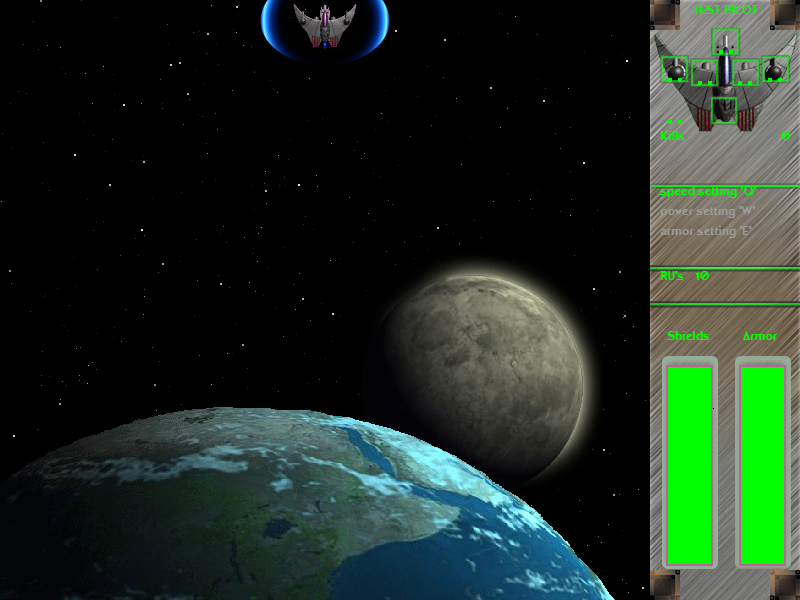
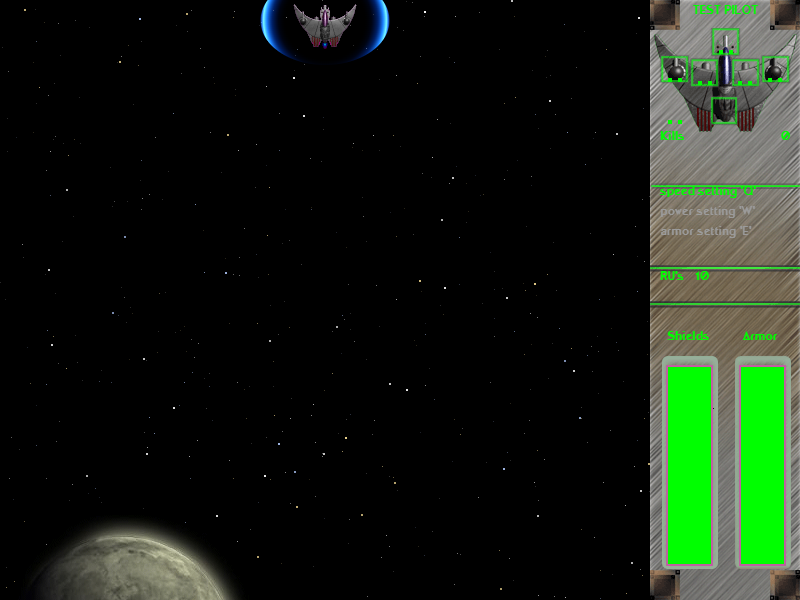
Fix customization preview power scaling, turret angles, and Earth/Moon positioning
- renderCustShipDemo: use p.frame for power-scaled sprite selection
  (blaster_N, turret_N, torp_N where N = cell2 power level)
- updateCustDemo: use TURRET_VELOCITY_TABLE lookup for correct
  discrete 8-angle turret directions instead of sin/cos math
- StarField: Moon x=0 (LEFT side, matching C++ source and reference),
  Moon y=200 (starts below Earth y=150), correct draw order preserved
- StarField speeds: Earth=50px/s, Moon=30px/s matching C++ YSCALE=600

Changed region(s): [[0.0312, 0.42, 0.7812, 1.0]]

diff --git a/web/src/game/GameManager.ts b/web/src/game/GameManager.ts
@@ -4,7 +4,7 @@
 
 import { GameCanvas, Input, AudioManager, AssetLoader, ParticleSystem, SoundInstance } from '../engine';
 import { LEVELS } from '../data/levels';
-import { ENEMY_SCORES, RANKINGS } from '../data/ships';
+import { ENEMY_SCORES, RANKINGS, TURRET_VELOCITY_TABLE } from '../data/ships';
 import { rectsOverlap, PLAY_AREA_W, PLAY_AREA_H } from './Collision';
 import { Player } from './Player';
 import { Enemy } from './Enemy';
@@ -76,7 +76,7 @@ export class GameManager {
     private custStatusMsg = '';
     private custStatusTimer = 0;
     // Demo projectiles for live ship preview in customization
-    private custDemoProjectiles: Array<{x:number, y:number, vx:number, vy:number, type:string, alive:boolean}> = [];
+    private custDemoProjectiles: Array<{x:number, y:number, vx:number, vy:number, type:string, frame:number, alive:boolean}> = [];
     private custDemoLastFire: Record<string, number> = {};
     private custSpeedShipX = 580;
     private custSpeedShipDir = 1;
@@ -1586,32 +1586,44 @@ export class GameManager {
         const shipX = 621, shipY = 383;
         const rates: Record<string, number> = { nose: 150, lt: 300, rt: 300, lm: 1200, rm: 1200 };
 
-        // Get turret angles for demo
+        // Get current power setting for sprite frames and turret angles
         const setting = this.player?.powerPlant.getSetting();
         const ltAngle = setting?.leftTurretAngle ?? 135;
         const rtAngle = setting?.rightTurretAngle ?? 45;
-        const ltRad = ltAngle * Math.PI / 180;
-        const rtRad = rtAngle * Math.PI / 180;
+
+        // Use the same discrete velocity table as real gameplay (scaled for demo speed)
+        const demoScale = 0.52; // scale table velocities (~29 magnitude) to ~15 demo speed
+        const ltSnap = ((Math.round(ltAngle / 45) * 45) % 360 + 360) % 360;
+        const rtSnap = ((Math.round(rtAngle / 45) * 45) % 360 + 360) % 360;
+        const ltVel = TURRET_VELOCITY_TABLE[ltSnap] ?? { dx: 0, dy: -29 };
+        const rtVel = TURRET_VELOCITY_TABLE[rtSnap] ?? { dx: 0, dy: -29 };
+
+        // Sprite frame = cell2 - 1 (matching real weapon rendering)
+        const noseFrame = (setting?.blasterCell2 ?? 1);
+        const ltFrame = (setting?.leftTurretCell2 ?? 1);
+        const rtFrame = (setting?.rightTurretCell2 ?? 1);
+        const lmFrame = (setting?.leftMissileCell2 ?? 1);
+        const rmFrame = (setting?.rightMissileCell2 ?? 1);
 
         if (fire.nose && now - (this.custDemoLastFire['nose'] ?? 0) > rates.nose) {
             this.custDemoLastFire['nose'] = now;
-            this.custDemoProjectiles.push({ x: shipX + 22, y: shipY - 12, vx: 0, vy: -14, type: 'blaster', alive: true });
+            this.custDemoProjectiles.push({ x: shipX + 22, y: shipY - 12, vx: 0, vy: -14, type: 'blaster', frame: noseFrame, alive: true });
         }
         if (fire.lt && now - (this.custDemoLastFire['lt'] ?? 0) > rates.lt) {
             this.custDemoLastFire['lt'] = now;
-            this.custDemoProjectiles.push({ x: shipX - 1, y: shipY - 5, vx: -Math.sin(ltRad) * 15, vy: -Math.cos(ltRad) * 15, type: 'turret', alive: true });
+            this.custDemoProjectiles.push({ x: shipX - 1, y: shipY - 5, vx: ltVel.dx * demoScale, vy: ltVel.dy * demoScale, type: 'turret', frame: ltFrame, alive: true });
         }
         if (fire.rt && now - (this.custDemoLastFire['rt'] ?? 0) > rates.rt) {
             this.custDemoLastFire['rt'] = now;
-            this.custDemoProjectiles.push({ x: shipX + 44, y: shipY - 5, vx: -Math.sin(rtRad) * 15, vy: -Math.cos(rtRad) * 15, type: 'turret', alive: true });
+            this.custDemoProjectiles.push({ x: shipX + 44, y: shipY - 5, vx: rtVel.dx * demoScale, vy: rtVel.dy * demoScale, type: 'turret', frame: rtFrame, alive: true });
         }
         if (fire.lm && now - (this.custDemoLastFire['lm'] ?? 0) > rates.lm) {
             this.custDemoLastFire['lm'] = now;
-            this.custDemoProjectiles.push({ x: shipX + 13, y: shipY, vx: 0, vy: -9, type: 'missile', alive: true });
+            this.custDemoProjectiles.push({ x: shipX + 13, y: shipY, vx: 0, vy: -9, type: 'missile', frame: lmFrame, alive: true });
         }
         if (fire.rm && now - (this.custDemoLastFire['rm'] ?? 0) > rates.rm) {
             this.custDemoLastFire['rm'] = now;
-            this.custDemoProjectiles.push({ x: shipX + 30, y: shipY, vx: 0, vy: -9, type: 'missile', alive: true });
+            this.custDemoProjectiles.push({ x: shipX + 30, y: shipY, vx: 0, vy: -9, type: 'missile', frame: rmFrame, alive: true });
         }
 
         // Move projectiles and remove off-screen ones
@@ -1870,11 +1882,13 @@ export class GameManager {
         const sel = this.custSelectedSystem;
         const shipX = 621, shipY = 383;
 
-        // Draw demo projectiles (using actual weapon sprites)
+        // Draw demo projectiles (using power-scaled weapon sprites)
         for (const p of this.custDemoProjectiles) {
-            const spriteKey = p.type === 'blaster' ? 'blaster_1'
-                            : p.type === 'turret' ? 'turret_1'
-                            : 'torp_1';
+            // frame = cell2 value (1-5), sprite index = frame (1-indexed filenames)
+            const frameIdx = Math.max(1, Math.min(p.frame, 5));
+            const spriteKey = p.type === 'blaster' ? `blaster_${frameIdx}`
+                            : p.type === 'turret' ? `turret_${frameIdx}`
+                            : `torp_${frameIdx}`;
             const img = this.assets.tryGetImage(spriteKey);
             if (img) {
                 ctx.drawImage(img, p.x, p.y);
@@ -1883,7 +1897,7 @@ export class GameManager {
                             : p.type === 'turret' ? '#00ff80'
                             : '#0000ff';
                 ctx.fillStyle = color;
-                ctx.fillRect(p.x, p.y, 8, 8);
+                ctx.fillRect(p.x, p.y, 4 + frameIdx * 2, 4 + frameIdx * 2);
             }
         }
 

diff --git a/web/src/game/StarField.ts b/web/src/game/StarField.ts
@@ -27,17 +27,16 @@ export class StarField {
 
     private earthSprite: HTMLImageElement | null = null;
     private moonSprite: HTMLImageElement | null = null;
-    // Earth at x=0 (650px wide, fills play area), Moon on the RIGHT side
-    // Both start mid-screen (~y=150) and scroll downward
+    // C++ positions: Earth(x=0, y=150), Moon(x=0, y=200) — both LEFT side
+    // Earth is closer (z=150) and faster; Moon further (z=200) and slower
     private earthY = 150;
-    private moonY = 150;
-    private moonX = 350;  // right side of play area
+    private moonY = 200;
+    private moonX = 0;  // left side, matching C++ x=0
     private bodiesStopped = false;
 
-    // Scroll speeds tuned so Moon exits bottom (~y=600) near end of 95s level
-    // Earth scrolls faster (closer, z=150), Moon slower (further, z=200)
-    private static readonly EARTH_SCREEN_SPEED = 22;
-    private static readonly MOON_SCREEN_SPEED = 10;
+    // C++ uses YSCALE=600: Earth vel=30 → 30/600*1000=50px/s, Moon vel=18 → 18/600*1000=30px/s
+    private static readonly EARTH_SCREEN_SPEED = 50;
+    private static readonly MOON_SCREEN_SPEED = 30;
 
     constructor(assets?: AssetLoader) {
         for (let i = 0; i < MAX_STARS; i++) {
